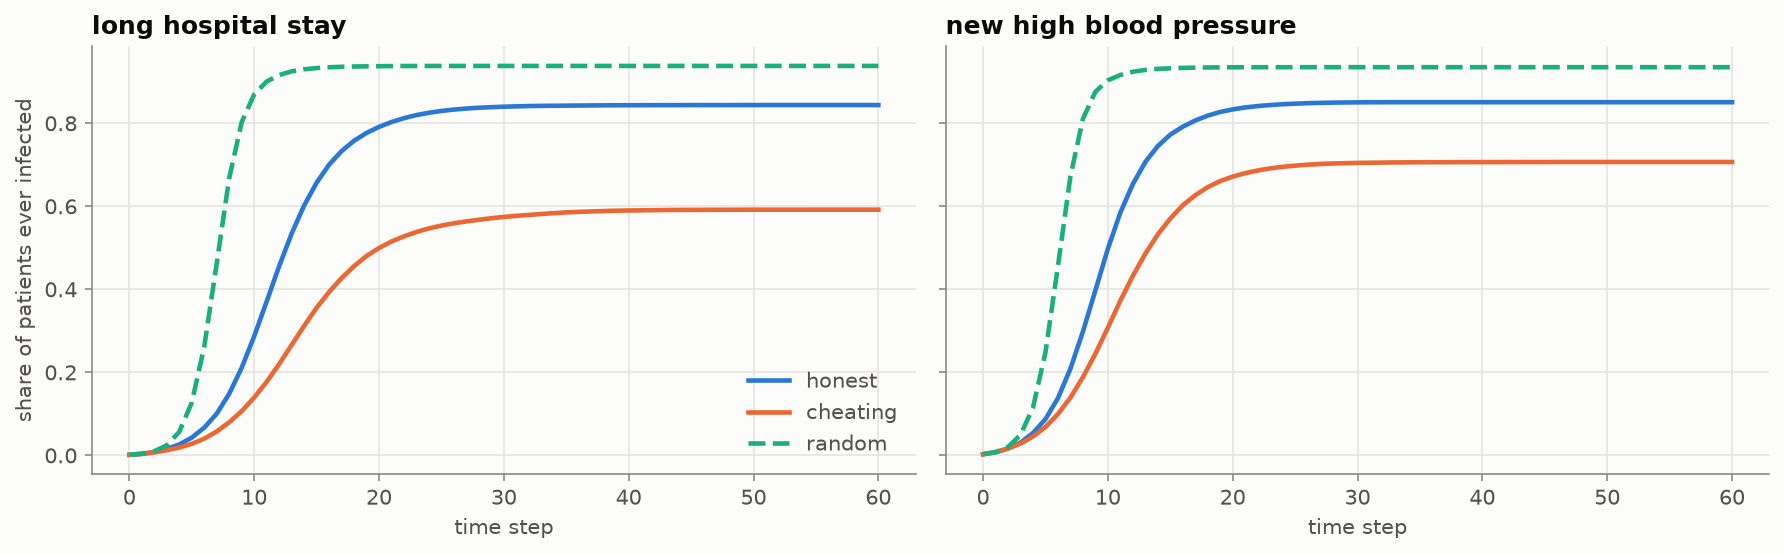
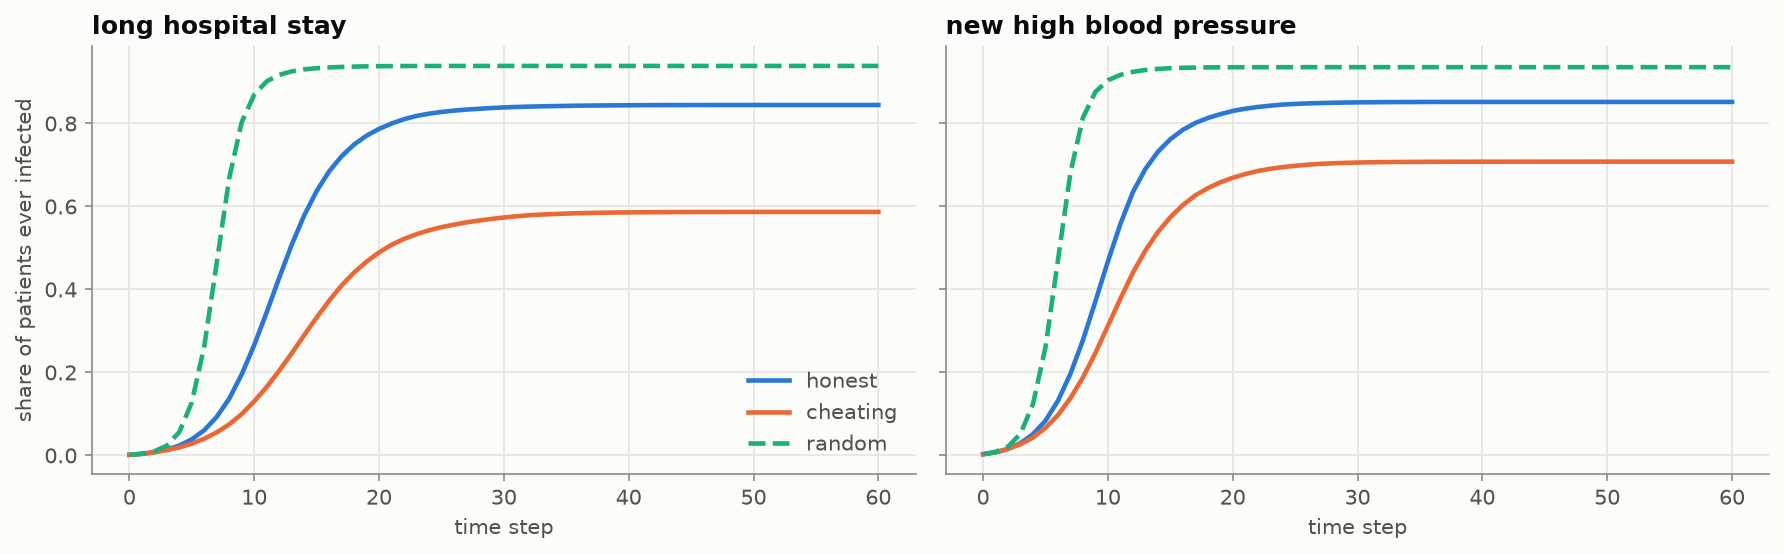
Make SIR reproducible: starting nodes no longer depend on set order
Claude-Session: https://claude.ai/code/session_012uJnY1We11T9eB9q5bMj6n

The Docker blind check caught it: sir_curves picked starting nodes from the
largest component as a Python set, whose order changes with PYTHONHASHSEED,
so seed=0 gave different SIR curves in different processes. Sorting fixes
it; new test runs SIR under three hash seeds. Notebook 05 re-run: honest
long stay 0.27 (was 0.29), high blood pressure 0.47 (was 0.50) at t=10.

diff --git a/tests/test_spreading.py b/tests/test_spreading.py
@@ -1,3 +1,7 @@
+import os
+import subprocess
+import sys
+
 import networkx as nx
 import numpy as np
 
@@ -44,3 +48,25 @@ def test_spectral_and_leiden_recover_two_obvious_groups():
     assert out["spectral_vs_leiden_ari"] > 0.9
     assert out["spectral_eta_squared"] > 0.9
     assert out["spectral_modularity"] > 0.4
+
+
+def test_sir_is_the_same_whatever_the_hash_seed():
+    # Regression: starting nodes used to depend on set order (PYTHONHASHSEED).
+    code = (
+        "import networkx as nx\n"
+        "from ehrgraph.netstats.spreading import sir_curves\n"
+        "g = nx.connected_watts_strogatz_graph(300, 6, 0.05, seed=1)\n"
+        "g = nx.relabel_nodes(g, lambda i: f'stay-{i}')\n"
+        "print(sir_curves(g, beta=0.3, steps=10, runs=5)[10])\n"
+    )
+    outputs = {
+        subprocess.run(
+            [sys.executable, "-c", code],
+            env={**os.environ, "PYTHONHASHSEED": str(h)},
+            capture_output=True,
+            text=True,
+            check=True,
+        ).stdout
+        for h in (1, 2, 3)
+    }
+    assert len(outputs) == 1, outputs

diff --git a/src/ehrgraph/netstats/spreading.py b/src/ehrgraph/netstats/spreading.py
@@ -44,9 +44,11 @@ def sir_curves(
     probability `gamma`. Seeds are random nodes in the largest piece."""
     rng = np.random.default_rng(seed)
     nodes, nbrs = _neighbors(graph)
-    lcc = list(max(nx.connected_components(graph), key=len))
+    lcc = max(nx.connected_components(graph), key=len)
     index = {n: i for i, n in enumerate(nodes)}
-    lcc_idx = np.array([index[n] for n in lcc])
+    # sorted: set order changes with Python's hash seed, so without this the
+    # same `seed` picks different starting nodes in different runs
+    lcc_idx = np.sort([index[n] for n in lcc])
     n = len(nodes)
     curves = np.zeros((runs, steps + 1))
     for r in range(runs):

diff --git a/scripts/publish_executed.py b/scripts/publish_executed.py
@@ -6,8 +6,8 @@ patient ids and prediction times on this machine, cleaned of local paths,
 and only then written to notebooks/executed/. Anything that fails the
 check is not written.
 
-    uv run python scripts/publish_executed.py notebooks/07_network_stats_task_a.ipynb ...
-    uv run python scripts/publish_executed.py --from /tmp/07_out.ipynb notebooks/07_...ipynb
+    uv run python scripts/publish_executed.py notebooks/02_long_stay_networks.ipynb ...
+    uv run python scripts/publish_executed.py --from /tmp/02_out.ipynb notebooks/02_...ipynb
 
 See src/ehrgraph/eval/publish.py for what is checked and why.
 """
